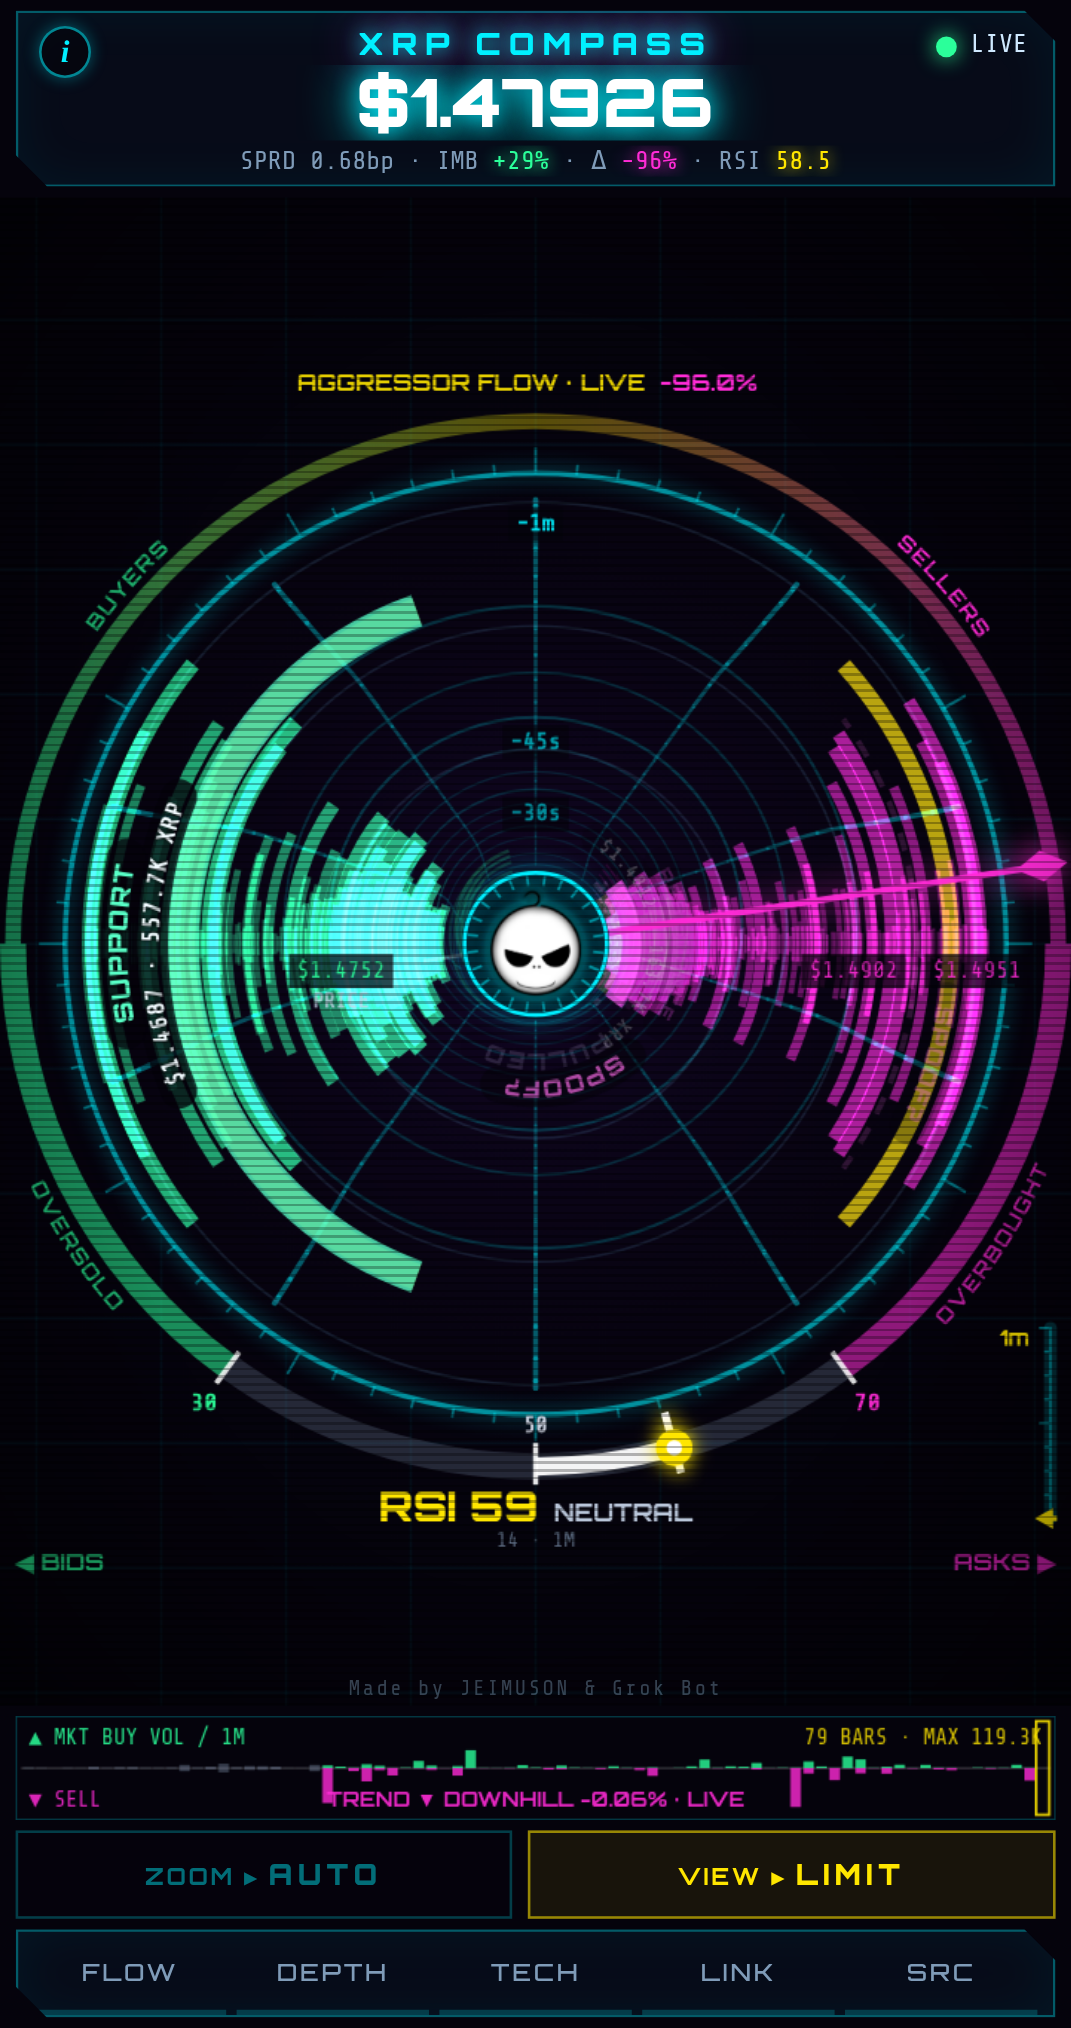
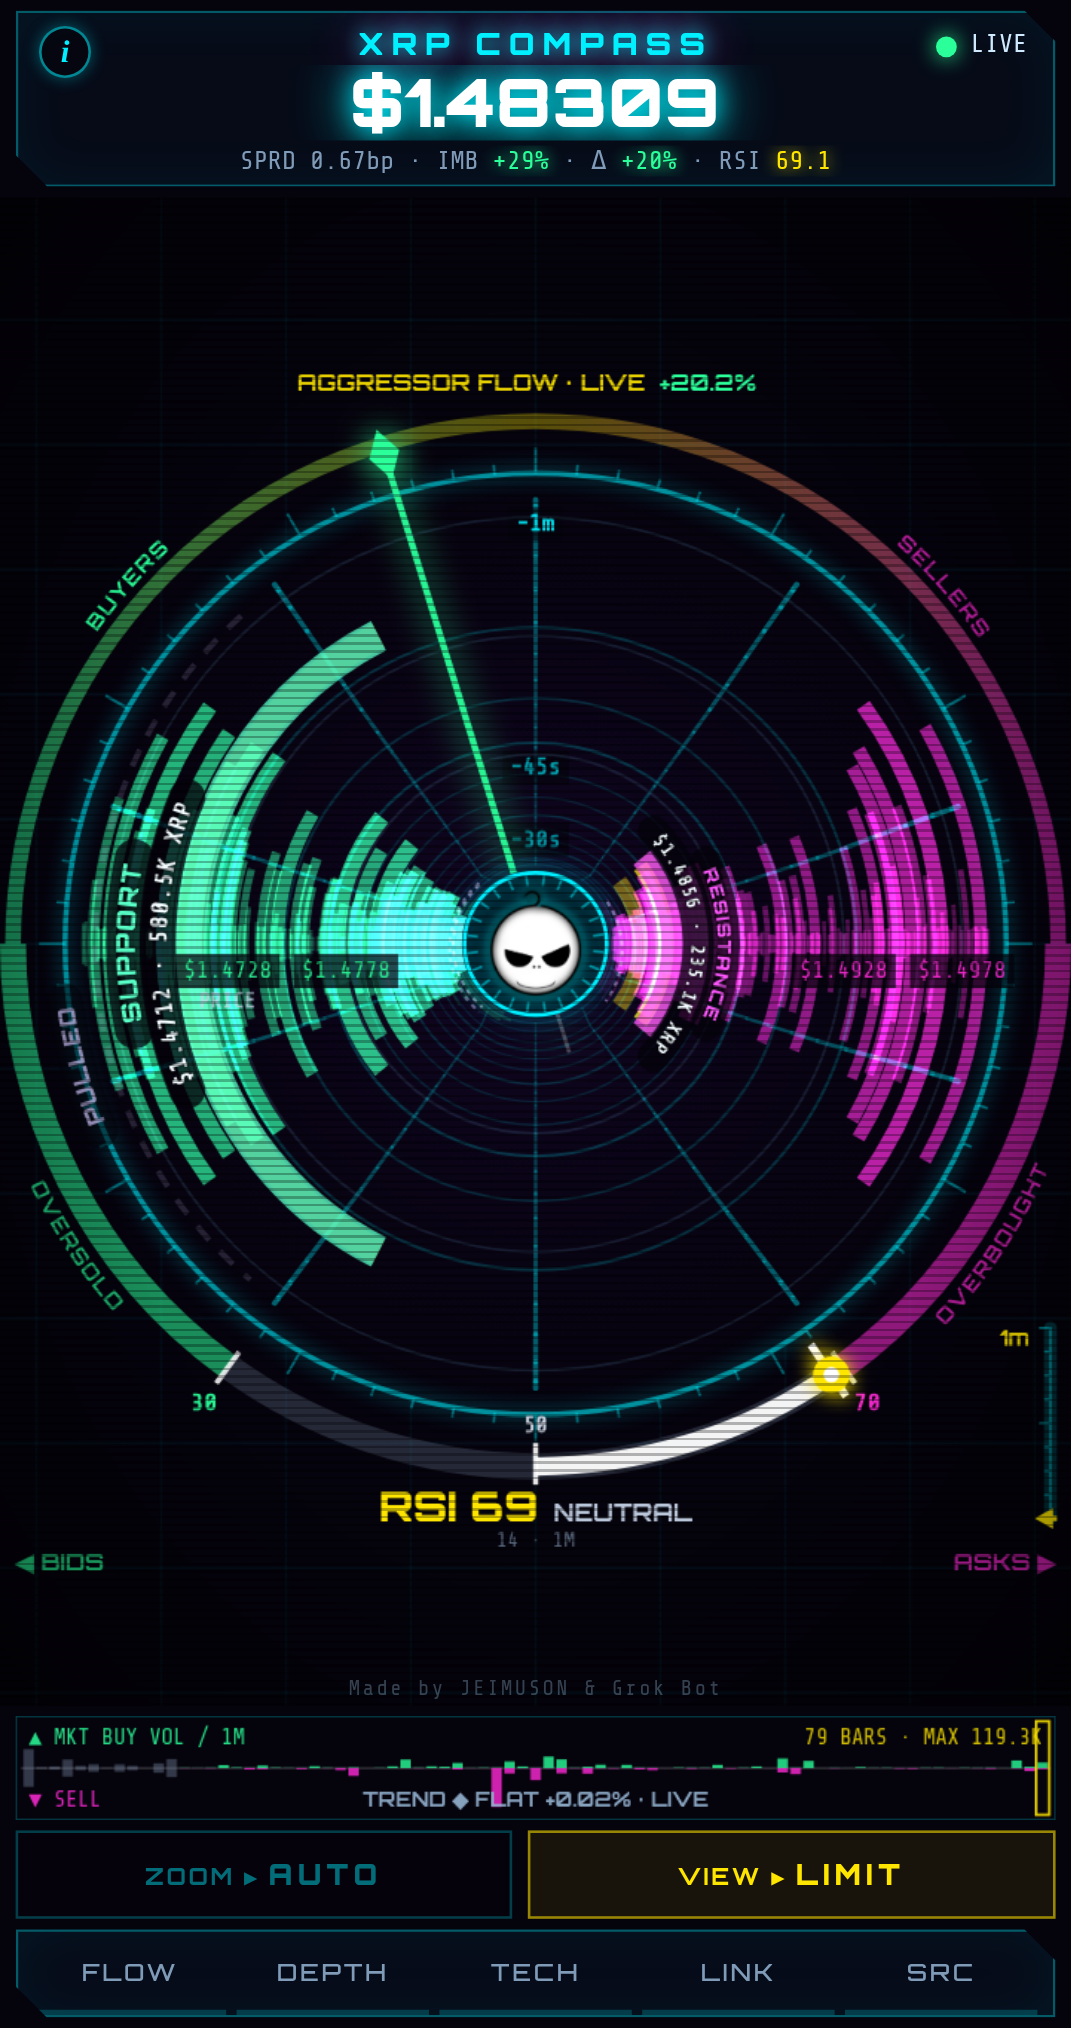
MARKET ghost walls: visible lines + edge chevrons (build 20261002-1911)

diff --git a/index.html b/index.html
@@ -3,7 +3,7 @@
 <head>
 <meta charset="utf-8">
 <meta http-equiv="Cache-Control" content="no-cache, no-store, must-revalidate"><meta http-equiv="Pragma" content="no-cache"><meta http-equiv="Expires" content="0">
-<script>window.OFC_BUILD='20261002-1852';(function(){try{if(!/^https?:/.test(location.protocol))return;fetch(location.pathname+'?_='+Date.now(),{cache:'no-store'}).then(r=>r.text()).then(t=>{const m=t.match(/OFC_BUILD='([^']+)'/);if(m&&m[1]!==window.OFC_BUILD&&sessionStorage.getItem('ofcB')!==m[1]){sessionStorage.setItem('ofcB',m[1]);location.replace(location.pathname+'?v='+m[1]+location.hash);}}).catch(()=>{});}catch(e){}})();</script>
+<script>window.OFC_BUILD='20261002-1911';(function(){try{if(!/^https?:/.test(location.protocol))return;fetch(location.pathname+'?_='+Date.now(),{cache:'no-store'}).then(r=>r.text()).then(t=>{const m=t.match(/OFC_BUILD='([^']+)'/);if(m&&m[1]!==window.OFC_BUILD&&sessionStorage.getItem('ofcB')!==m[1]){sessionStorage.setItem('ofcB',m[1]);location.replace(location.pathname+'?v='+m[1]+location.hash);}}).catch(()=>{});}catch(e){}})();</script>
 <meta name="viewport" content="width=device-width,initial-scale=1,viewport-fit=cover,user-scalable=no">
 <meta name="theme-color" content="#05030c">
 <meta name="color-scheme" content="dark">
@@ -165,7 +165,7 @@ body.hublogo #top .logo{display:none}   /* mobile: logo lives in the compass hub
  <li>Trail swings <b>out</b> = price up, <b>in</b> = price down.</li>
  <li><b class="gr">Green</b> = buyers, <b class="rd">red</b> = sellers. Thicker trail = more volume.</li>
  <li><b>Flares</b> mark the spots with the heaviest trading.</li>
- <li>Faint <b>ghost arcs</b> = the biggest limit walls, drawn where trades at their price would land. They flare when hit, flash when eaten, go dashed when pulled.</li></ul>
+ <li><b>Ghost walls</b> = the biggest limit walls: glowing lines where trades at their price would land, or edge chevrons (top = above, bottom = below, with % distance) when outside the scale. They flare when hit, flash when eaten, go dashed when pulled.</li></ul>
  <h3>LIMIT VIEW · ORDER-BOOK WALLS</h3>
  <ul><li>Arcs are <b>walls</b> of waiting orders: <b class="gr">buyers left</b>, <b class="rd">sellers right</b>.</li>
  <li>Distance from the middle = distance from the current price.</li>
@@ -1480,28 +1480,52 @@ function drawTrail(now){
   // Trades at the price -> flare; EATEN (classifier) -> short break flash; PULLED -> fades out as a dashed ghost.
   if(BREADY&&sortedB.length&&sortedA.length){const tN=performance.now(),dnow=Date.now(),tol=BUCK/2+mid*0.00002;let maxq=1e-9;for(const L of [sortedB,sortedA])for(const x of L)if(x[1]>maxq)maxq=x[1];
     const sT0=FOCAL/(FOCAL+TURN*DZ),L0=Math.max(2,0.55*RMAX*KO*(1-sT0)),vis=X=>Math.abs((X-P0)/BSP*RMAX*KO*0.22/L0),live=new Set(),dt=GWT?Math.min(0.1,(tN-GWT)/1000):0;GWT=tN;
-    for(const [side,lv] of [['bid',sortedB],['ask',sortedA]])for(const [px,q] of topBySize(lv,3)){if(q<0.25*maxq)continue;const k=side+'|'+px;live.add(k);
-      let G=GWS.get(k);if(!G){G={side,px,q,a:0,fl:0,br:-1e9,pull:-1e9,evT:tN};GWS.set(k,G);}G.q=q;}
+    // top 3 per side >= 25% of the biggest level; each side's biggest wall always kept so every side is represented
+    for(const [side,lv] of [['bid',sortedB],['ask',sortedA]])topBySize(lv,3).forEach(([px,q],i)=>{if(i>0&&q<0.25*maxq)return;const k=side+'|'+px;live.add(k);
+      let G=GWS.get(k);if(!G){G={side,px,q,a:0,fl:0,br:-1e9,pull:-1e9,evT:tN};GWS.set(k,G);}G.q=q;});
     for(const o of SPF.ev){if(o.kind!=='eaten'&&o.kind!=='pulled')continue;const G=GWS.get(o.side+'|'+o.px);if(G&&o.tt>G.evT){G.evT=o.tt;if(o.kind==='eaten')G.br=o.tt;else G.pull=o.tt;}}
-    const A2=Math.max(2,Math.min(AMAX,MWIN*0.5)),NC=8;
+    const A2=Math.max(2,Math.min(AMAX,MWIN*0.5)),NC=8,sc=Math.max(1,RMAX/380),EDG={bid:[],ask:[]};
     for(const [k,G] of GWS){const on=live.has(k),pulled=tN-G.pull<3000,brk=tN-G.br<800;
       G.a+=((on&&!pulled?1:0)-G.a)*(1-Math.exp(-dt/(on?0.5:pulled?1.2:0.35)));
       let hv=0;for(let i=trades.length-1;i>=0;i--){const t=trades[i];if(t.t<dnow-1200)break;if((G.side==='bid'?t.side==='sell':t.side==='buy')&&Math.abs(t.px-G.px)<=tol)hv+=t.qty;}
       const ft=Math.min(1,hv/(0.08*G.q+1e-9));G.fl+=(ft-G.fl)*(ft>G.fl?0.35:1-Math.exp(-dt/0.6));
       if(!on&&G.a<0.01&&!brk&&!pulled){GWS.delete(k);continue;}
-      const v=vis(G.px),va=Math.max(0,Math.min(1,(1.3-v)/0.3));G.v=v;G.A=0;if(va<=0)continue;
+      const v=vis(G.px),va=Math.max(0,Math.min(1,(1.3-v)/0.3));G.v=v;G.A=0;G.E=0;
       const rel=Math.sqrt(Math.min(1,G.q/maxq)),bu=brk?1-(tN-G.br)/800:0,c=G.side==='bid'?COL.bid:COL.ask;
-      const A=va*Math.max(G.a,pulled?Math.max(0,1-(tN-G.pull)/3000):0,bu);G.A=A;if(A<=0.01)continue;
+      const A0=Math.max(G.a,pulled?Math.max(0,1-(tN-G.pull)/3000):0,bu),pd=pulled&&!on;
+      const col=pd?[215,200,255]:brk?[Math.min(255,c[0]+110),Math.min(255,c[1]+110),Math.min(255,c[2]+110)]:c;
+      if(va<1&&A0>0.01)EDG[(G.px>=P0)?'ask':'bid'].push({G,A:A0*(1-va),rel,bu,pd,col,c});   // outside the scale -> clamped edge chevron
+      const A=va*A0;G.A=A;if(A<=0.01)continue;
       const pts=[];for(let f=0;f<=A2+1e-6;f+=0.5)pts.push([f,pt(f,G.px)]);
       ctx.save();ctx.lineCap='round';
-      if(pulled&&!on){ctx.setLineDash([6,6]);ctx.lineDashOffset=-tN/45;}else if(brk){ctx.setLineDash([10*(1-bu)+3,7+12*(1-bu)]);}
-      const col=pulled&&!on?[215,200,255]:brk?[Math.min(255,c[0]+110),Math.min(255,c[1]+110),Math.min(255,c[2]+110)]:c;
-      ctx.lineWidth=(1+3*rel+4*G.fl+6*bu)*Math.max(0.8,RMAX/400);
-      if(Q>0&&(G.fl>0.15||bu>0)){ctx.shadowColor=rgba(c,1);ctx.shadowBlur=10+18*Math.max(G.fl,bu);}
-      for(let ci=0;ci<NC;ci++){const i0=Math.floor(ci*(pts.length-1)/NC),i1=Math.floor((ci+1)*(pts.length-1)/NC);if(i1<=i0)continue;const fm=pts[(i0+i1)>>1][0],um=pts[(i0+i1)>>1][1].u;
-        const al=A*(0.09+0.13*rel+0.5*G.fl+0.6*bu)*Math.pow(um,0.8)*Math.pow(Math.max(0,1-fm/A2),0.7);if(al<=0.004)continue;
-        ctx.strokeStyle=rgba(col,Math.min(0.9,al).toFixed(3));ctx.beginPath();ctx.moveTo(pts[i0][1].x,pts[i0][1].y);for(let i=i0+1;i<=i1;i++)ctx.lineTo(pts[i][1].x,pts[i][1].y);ctx.stroke();}
+      if(pd){ctx.setLineDash([6*sc,6*sc]);ctx.lineDashOffset=-tN/45;}else if(brk){ctx.setLineDash([10*(1-bu)+3,7+12*(1-bu)]);}
+      const lw=Math.max(2,(1.5+3*rel+4*G.fl+6*bu)*sc);
+      for(const [wm,am,gl] of [[3.2,0.22,0],[1,1,1]]){ctx.lineWidth=lw*wm;   // soft glow band, then the core line
+        if(gl&&Q>0){ctx.shadowColor=rgba(c,0.9);ctx.shadowBlur=(6+18*Math.max(G.fl,bu))*sc;}
+        for(let ci=0;ci<NC;ci++){const i0=Math.floor(ci*(pts.length-1)/NC),i1=Math.floor((ci+1)*(pts.length-1)/NC);if(i1<=i0)continue;const fm=pts[(i0+i1)>>1][0],um=pts[(i0+i1)>>1][1].u;
+          const al=am*A*(0.3+0.3*rel+0.45*G.fl+0.6*bu)*Math.pow(um,0.5)*Math.pow(Math.max(0,1-fm/A2),0.45);if(al<=0.004)continue;
+          ctx.strokeStyle=rgba(col,Math.min(0.95,al).toFixed(3));ctx.beginPath();ctx.moveTo(pts[i0][1].x,pts[i0][1].y);for(let i=i0+1;i<=i1;i++)ctx.lineTo(pts[i][1].x,pts[i][1].y);ctx.stroke();}}
+      {const ti=Math.min(pts.length-1,Math.max(1,Math.round(pts.length*0.18))),p=pts[ti][1];   // small size tag on the line
+        ctx.setLineDash([]);ctx.shadowBlur=0;ctx.font=`${Math.round(9*sc)}px "Share Tech Mono",monospace`;ctx.textAlign='center';ctx.textBaseline='middle';
+        ctx.fillStyle=rgba(col,Math.min(0.85,A*(0.55+0.3*rel+0.3*G.fl)).toFixed(3));ctx.fillText(fmtUSD(G.q*G.px),p.x,p.y-8*sc);}
       ctx.restore();}
+    // clamped edge indicators: walls beyond the scale sit as glowing chevrons just inside the outer ring,
+    // asks/above-price at the top edge (right of NOW), bids/below-price at the bottom edge; nearest first; brightness falls with distance
+    for(const sd of ['ask','bid']){const L=EDG[sd].sort((a,b)=>Math.abs(a.G.px-P0)-Math.abs(b.G.px-P0)),up=sd==='ask',step=Math.max(0.075,28/RMAX),a0=Math.max(0.16,36/RMAX);
+      L.forEach((o,k)=>{const {G,rel,bu,pd,col,c}=o,d=(G.px-P0)/P0*100,ad=Math.abs(d),fall=0.5+0.5*Math.exp(-ad/0.8);
+        const al=Math.min(1,o.A*(0.55+0.35*rel+0.5*G.fl+0.6*bu)*fall*(k===0?1:0.8));G.E=+al.toFixed(2);if(al<0.02)return;
+        const th=up?-Math.PI/2+a0+step*k:Math.PI/2+a0+step*k,nx=Math.cos(th),ny=Math.sin(th),tx=-ny,ty=nx,r=RMAX*0.95,cx=CX+nx*r,cy=CY+ny*r;
+        const sz=(5+5*rel+4*G.fl+5*bu)*sc;
+        ctx.save();if(Q>0){ctx.shadowColor=rgba(c,0.95);ctx.shadowBlur=(8+16*Math.max(G.fl,bu))*sc;}
+        const P=(a,b)=>[cx+nx*a+tx*b,cy+ny*a+ty*b],T=P(sz,0),W1=P(-sz*0.45,sz*0.95),N=P(-sz*0.05,0),W2=P(-sz*0.45,-sz*0.95);
+        const path=()=>{ctx.beginPath();ctx.moveTo(...T);ctx.lineTo(...W1);ctx.lineTo(...N);ctx.lineTo(...W2);ctx.closePath();};
+        if(pd){ctx.setLineDash([3*sc,3*sc]);ctx.lineWidth=1.4*sc;ctx.strokeStyle=rgba(col,al.toFixed(3));path();ctx.stroke();}
+        else{ctx.fillStyle=rgba(col,(al*0.85).toFixed(3));path();ctx.fill();ctx.lineWidth=1*sc;ctx.strokeStyle=rgba([Math.min(255,col[0]+70),Math.min(255,col[1]+70),Math.min(255,col[2]+70)],al.toFixed(3));ctx.stroke();}
+        if(bu>0){ctx.lineWidth=2*sc;ctx.strokeStyle=rgba([255,255,255],(bu*0.8).toFixed(3));ctx.beginPath();ctx.arc(cx,cy,sz*(1.2+1.6*(1-bu)),0,Math.PI*2);ctx.stroke();}
+        if(k===0||RMAX>250){ctx.shadowBlur=0;ctx.font=`${Math.round(9*sc)}px "Share Tech Mono",monospace`;ctx.textAlign='center';ctx.textBaseline='middle';
+          const txt=(d>=0?'+':'\u2212')+ad.toFixed(ad<1?2:1)+'%'+(RMAX>250?' '+fmtUSD(G.q*G.px):''),tp=P(-(5+5*rel)*sc-9*sc-k*11*sc,0);
+          ctx.fillStyle=rgba(col,Math.min(0.95,al+0.1).toFixed(3));ctx.fillText(txt,tp[0],tp[1]);}
+        ctx.restore();});}
   }
   // centreline spine: thin continuous track that fades into the vanishing point
   ctx.lineWidth=1;
@@ -1734,7 +1758,7 @@ function frame(){
 connect();seedREST();
 requestAnimationFrame(frame);
 document.addEventListener('visibilitychange',()=>{if(!document.hidden&&(!ws||ws.readyState>1)){backoff=1000;connect();}});
-window.__ofc={get gw(){return [...GWS.values()].map(G=>({s:G.side,px:G.px,a:+G.a.toFixed(2),fl:+G.fl.toFixed(2),br:performance.now()-G.br<800,pull:performance.now()-G.pull<3000,v:+(G.v||0).toFixed(2),A:+(G.A||0).toFixed(2)}))},simEat(ms,kind,hold,px){EAT={t0:Date.now(),ms,kind:kind||'eat',hold:hold==null?0:hold,px:px||0,q0:0,lq:null};},get spoof(){return {n:{...SPF.n},trk:SPF.trk.size,ev:SPF.ev.slice(-6).map(o=>({k:o.kind,s:o.side,px:o.px,q0:+o.q0.toFixed(1),q1:+o.q1.toFixed(1),ratio:o.ratio,spoof:o.spoof,big:o.big,ven:o.ven}))}},get eat(){const n=performance.now();return EAT&&{px:EAT.px,q0:EAT.q0,ref:REFQ,cp:history.filter((h,i)=>i%8===0&&(n-h.t)/1000<=LWIN).map(h=>{const e=h.b.find(x=>x[0]===EAT.px);return e?[Math.round((n-h.t)/1000),+levelSpan(e[1],REFQ||h.maxq).toFixed(3)]:null;}).filter(Boolean)}},get mt(){return {w:+MT.w.toFixed(1),q:+MT.q.toFixed(2),z:+MT.z.toFixed(2),sg:MT.sg,burst:burst.on}},get lt(){return {w:+LT.w.toFixed(1),rho:+LT.rho.toFixed(2),lwin:+LWIN.toFixed(1),burst:burst.on}},get keyWalls(){return VIEW==='limit'?{...KEYW,nSig:{bid:topWalls.bid.length,ask:topWalls.ask.length},marks:PLBL.map(q=>q.txt)}:null},simFlat(){SIM={on:true,base:mid,t0:0,dir:0,amp:0,ramp:1};},simMove(dir,frac,ramp){SIM.t0=Date.now();SIM.dir=dir;SIM.amp=frac*SIM.base;SIM.ramp=ramp;},get resp(){const v=proj(HIST_SEC),m=proj(HIST_SEC*0.4);return {tw:+(TWIST_MAX*VSP.w*180/Math.PI).toFixed(2),vp:+(v.y-CY).toFixed(1),vm:+(m.y-CY).toFixed(1),o3:+((window.__ofcR||{}).o3||0).toFixed(1),o8:+((window.__ofcR||{}).o8||0).toFixed(1),mw:+MWIN.toFixed(1),dr:dispRange,pr:pathRef}},get bp(){return BP.length},autoOff(){pillT=0;if(rangeAuto)pillTap();},get dr(){return dispRange},get hubLogo(){return !WIDE&&LOGO.complete&&LOGO.naturalWidth>0},get hdrLogo(){const e=document.querySelector('#top .logo');return !!e&&getComputedStyle(e).display!=='none'},get flares(){return VIEW==='market'?[...FLR.entries()].map(([k,F])=>{const p=F.dx!=null?{x:F.dx,y:F.dy}:null;return {k,T:F.T,tT:trailT,st:trailStep,w:+F.w.toFixed(2),on:!!F.on,side:F.c===COL.bid?'bid':'ask',x:p?Math.round(p.x):null,y:p?Math.round(p.y):null};}):null},winTo(S){intro=null;setAuto(false);syncZA();let lo=0,hi=1;const f=u=>mWinOf(zR(u));const dec=f(0)>f(1);for(let i=0;i<40;i++){const m=(lo+hi)/2;if((f(m)>S)===dec)lo=m;else hi=m;}rangeFrac=zR((lo+hi)/2);return f((lo+hi)/2);},get vring(){if(VIEW!=='market')return null;const p=proj(HIST_SEC);return {full:+(RMAX*p.s).toFixed(1),r:+(RMAX*p.s).toFixed(1),x:Math.round(p.x),y:Math.round(p.y),R0:Math.round(R0)}},get twist(){return VIEW==='market'?+(TWIST_MAX*VSP.w*180/Math.PI).toFixed(1):0},get spin(){return {w:+VSP.w.toFixed(3),ph:+VSP.ph.toFixed(3)}},zManual(){intro=null;setAuto(false);syncZA();},get burst(){return {...burst,now:Date.now()}},simBurst(usd){const px=trades.length?trades[trades.length-1].px:mid,n=Date.now();for(let k=0;k<8;k++)trades.push({t:n-(7-k)*300,side:k%2?'sell':'buy',qty:usd/8/px,px,v:'kraken'});trailDirty=true;},get auto(){return rangeAuto},zAuto(){intro=null;setAuto(true);syncZA();},zIn(){intro=null;setAuto(false);rangeFrac=zR(1);syncZA();},get mwin(){return +MWIN.toFixed(1)},get lwin(){return +LWIN.toFixed(1)},get prange(){return PRANGE},get disp(){return dispRange},get plbl(){return PLBL.map(q=>q.txt)},get hubTxt(){return mid?hubTxt():null},get head(){return {x:Math.round(TRHEAD.x),y:Math.round(TRHEAD.y),CX,CY,R0:Math.round(R0),RMAX:Math.round(RMAX)}},get logo(){const g=logoGeom();return g&&{x:Math.round(g.x),y:Math.round(g.y),S:g.S,CX,CY,RMAX,W,H,Z:zbarGeom()}},get ven(){return Object.fromEntries(Object.entries(VEN).map(([k,v])=>[k,{st:v.st,share:+v.share.toFixed(3),books:BOOKS.filter(B=>B.v===k).map(B=>({k:B.k,ready:B.ready,n:B.b.size+B.a.size,ck:B.ckOk,ckBad:B.ckBad,resyncs:B.resyncs}))}]))},get src(){return SRC},setSource,get comb(){return {ready:BREADY,mid,bestBid,bestAsk,nb:sortedB.length,na:sortedA.length}},get raw(){return RAW.length},get flow(){const f=flow(30);return {b:Math.round(f.b),s:Math.round(f.s),r:+f.r.toFixed(3)}},get trendW(){return trendWin()},get win(){return winSec},get heatN(){return Object.fromEntries(Object.entries(HEATS).map(([w,H])=>[w,H.m.size]))},get intro(){return intro},book,get mid(){return mid},get ck(){return {ckOk,ckBad,ckLast}},get trades(){return tradeCount},get bubbles(){return bubbles.length},get hist(){return history.length},get ind(){return ind},get candles(){return candles.size},get dir(){return INBOUND?'in':'out'},get view(){return VIEW},get layout(){return {W,H,CX,CY,RMAX,R0,WIDE}},get tunnel(){const far=proj(HIST_SEC);return {FOCAL,farScale:far.s,farY:far.y-CY,dispRange,fitFrac,rangeAuto,RMAX}},zoom(f){setAuto(false);rangeFrac=Math.min(0.08,Math.max(0.0005,rangeFrac*f));},autoZoom(){setAuto(true);},get autoOn(){return rangeAuto},get zgeom(){return zbarGeom()},get conn(){return connState},get fps(){return FPS},get q(){return Q},get rc(){return reconnects},forceDrop(){ws&&ws.close();}};
+window.__ofc={get gw(){return [...GWS.values()].map(G=>({s:G.side,px:G.px,a:+G.a.toFixed(2),fl:+G.fl.toFixed(2),br:performance.now()-G.br<800,pull:performance.now()-G.pull<3000,v:+(G.v||0).toFixed(2),A:+(G.A||0).toFixed(2),E:G.E||0}))},simEat(ms,kind,hold,px){EAT={t0:Date.now(),ms,kind:kind||'eat',hold:hold==null?0:hold,px:px||0,q0:0,lq:null};},get spoof(){return {n:{...SPF.n},trk:SPF.trk.size,ev:SPF.ev.slice(-6).map(o=>({k:o.kind,s:o.side,px:o.px,q0:+o.q0.toFixed(1),q1:+o.q1.toFixed(1),ratio:o.ratio,spoof:o.spoof,big:o.big,ven:o.ven}))}},get eat(){const n=performance.now();return EAT&&{px:EAT.px,q0:EAT.q0,ref:REFQ,cp:history.filter((h,i)=>i%8===0&&(n-h.t)/1000<=LWIN).map(h=>{const e=h.b.find(x=>x[0]===EAT.px);return e?[Math.round((n-h.t)/1000),+levelSpan(e[1],REFQ||h.maxq).toFixed(3)]:null;}).filter(Boolean)}},get mt(){return {w:+MT.w.toFixed(1),q:+MT.q.toFixed(2),z:+MT.z.toFixed(2),sg:MT.sg,burst:burst.on}},get lt(){return {w:+LT.w.toFixed(1),rho:+LT.rho.toFixed(2),lwin:+LWIN.toFixed(1),burst:burst.on}},get keyWalls(){return VIEW==='limit'?{...KEYW,nSig:{bid:topWalls.bid.length,ask:topWalls.ask.length},marks:PLBL.map(q=>q.txt)}:null},simFlat(){SIM={on:true,base:mid,t0:0,dir:0,amp:0,ramp:1};},simMove(dir,frac,ramp){SIM.t0=Date.now();SIM.dir=dir;SIM.amp=frac*SIM.base;SIM.ramp=ramp;},get resp(){const v=proj(HIST_SEC),m=proj(HIST_SEC*0.4);return {tw:+(TWIST_MAX*VSP.w*180/Math.PI).toFixed(2),vp:+(v.y-CY).toFixed(1),vm:+(m.y-CY).toFixed(1),o3:+((window.__ofcR||{}).o3||0).toFixed(1),o8:+((window.__ofcR||{}).o8||0).toFixed(1),mw:+MWIN.toFixed(1),dr:dispRange,pr:pathRef}},get bp(){return BP.length},autoOff(){pillT=0;if(rangeAuto)pillTap();},get dr(){return dispRange},get hubLogo(){return !WIDE&&LOGO.complete&&LOGO.naturalWidth>0},get hdrLogo(){const e=document.querySelector('#top .logo');return !!e&&getComputedStyle(e).display!=='none'},get flares(){return VIEW==='market'?[...FLR.entries()].map(([k,F])=>{const p=F.dx!=null?{x:F.dx,y:F.dy}:null;return {k,T:F.T,tT:trailT,st:trailStep,w:+F.w.toFixed(2),on:!!F.on,side:F.c===COL.bid?'bid':'ask',x:p?Math.round(p.x):null,y:p?Math.round(p.y):null};}):null},winTo(S){intro=null;setAuto(false);syncZA();let lo=0,hi=1;const f=u=>mWinOf(zR(u));const dec=f(0)>f(1);for(let i=0;i<40;i++){const m=(lo+hi)/2;if((f(m)>S)===dec)lo=m;else hi=m;}rangeFrac=zR((lo+hi)/2);return f((lo+hi)/2);},get vring(){if(VIEW!=='market')return null;const p=proj(HIST_SEC);return {full:+(RMAX*p.s).toFixed(1),r:+(RMAX*p.s).toFixed(1),x:Math.round(p.x),y:Math.round(p.y),R0:Math.round(R0)}},get twist(){return VIEW==='market'?+(TWIST_MAX*VSP.w*180/Math.PI).toFixed(1):0},get spin(){return {w:+VSP.w.toFixed(3),ph:+VSP.ph.toFixed(3)}},zManual(){intro=null;setAuto(false);syncZA();},get burst(){return {...burst,now:Date.now()}},simBurst(usd){const px=trades.length?trades[trades.length-1].px:mid,n=Date.now();for(let k=0;k<8;k++)trades.push({t:n-(7-k)*300,side:k%2?'sell':'buy',qty:usd/8/px,px,v:'kraken'});trailDirty=true;},get auto(){return rangeAuto},zAuto(){intro=null;setAuto(true);syncZA();},zIn(){intro=null;setAuto(false);rangeFrac=zR(1);syncZA();},get mwin(){return +MWIN.toFixed(1)},get lwin(){return +LWIN.toFixed(1)},get prange(){return PRANGE},get disp(){return dispRange},get plbl(){return PLBL.map(q=>q.txt)},get hubTxt(){return mid?hubTxt():null},get head(){return {x:Math.round(TRHEAD.x),y:Math.round(TRHEAD.y),CX,CY,R0:Math.round(R0),RMAX:Math.round(RMAX)}},get logo(){const g=logoGeom();return g&&{x:Math.round(g.x),y:Math.round(g.y),S:g.S,CX,CY,RMAX,W,H,Z:zbarGeom()}},get ven(){return Object.fromEntries(Object.entries(VEN).map(([k,v])=>[k,{st:v.st,share:+v.share.toFixed(3),books:BOOKS.filter(B=>B.v===k).map(B=>({k:B.k,ready:B.ready,n:B.b.size+B.a.size,ck:B.ckOk,ckBad:B.ckBad,resyncs:B.resyncs}))}]))},get src(){return SRC},setSource,get comb(){return {ready:BREADY,mid,bestBid,bestAsk,nb:sortedB.length,na:sortedA.length}},get raw(){return RAW.length},get flow(){const f=flow(30);return {b:Math.round(f.b),s:Math.round(f.s),r:+f.r.toFixed(3)}},get trendW(){return trendWin()},get win(){return winSec},get heatN(){return Object.fromEntries(Object.entries(HEATS).map(([w,H])=>[w,H.m.size]))},get intro(){return intro},book,get mid(){return mid},get ck(){return {ckOk,ckBad,ckLast}},get trades(){return tradeCount},get bubbles(){return bubbles.length},get hist(){return history.length},get ind(){return ind},get candles(){return candles.size},get dir(){return INBOUND?'in':'out'},get view(){return VIEW},get layout(){return {W,H,CX,CY,RMAX,R0,WIDE}},get tunnel(){const far=proj(HIST_SEC);return {FOCAL,farScale:far.s,farY:far.y-CY,dispRange,fitFrac,rangeAuto,RMAX}},zoom(f){setAuto(false);rangeFrac=Math.min(0.08,Math.max(0.0005,rangeFrac*f));},autoZoom(){setAuto(true);},get autoOn(){return rangeAuto},get zgeom(){return zbarGeom()},get conn(){return connState},get fps(){return FPS},get q(){return Q},get rc(){return reconnects},forceDrop(){ws&&ws.close();}};
 })();
 // ---------------- INFO overlay: what am I looking at? (✕ / tap outside / Esc) ----------------
 (function(){const I=document.getElementById('info'),B=document.getElementById('infoBtn');if(!I||!B)return;
